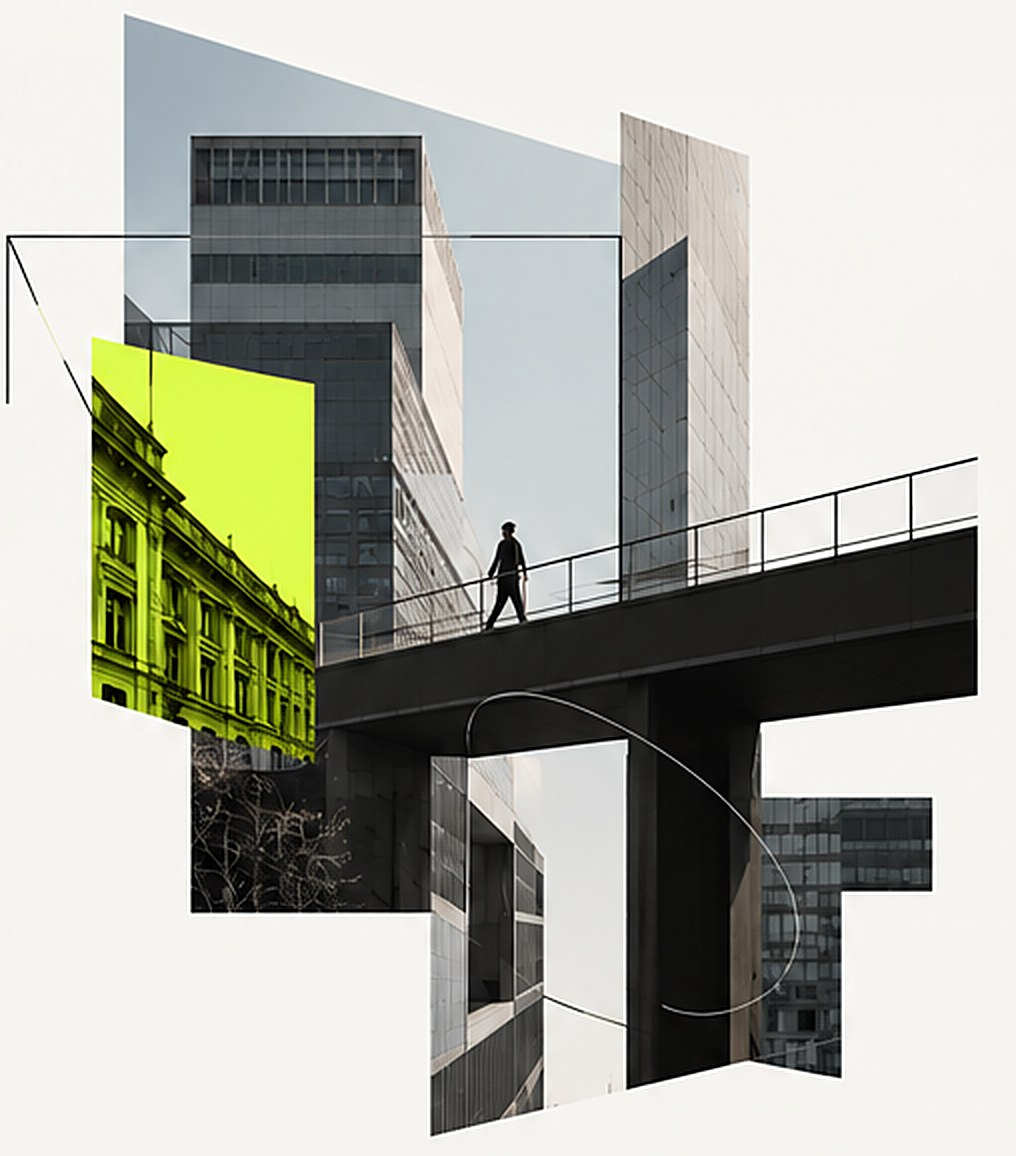
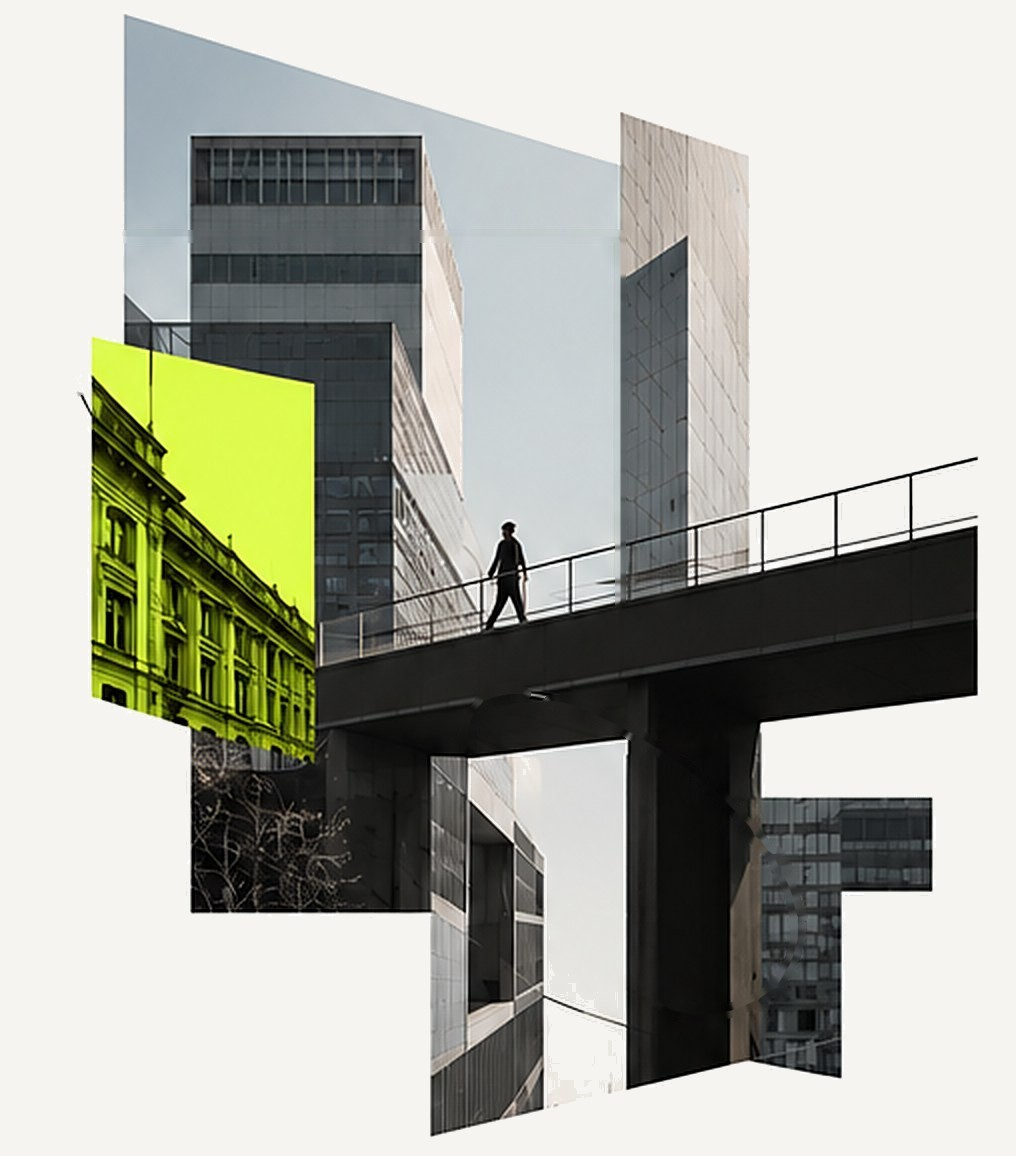
Анимация наброска на первом экране, подключение формы

diff --git a/index.html b/index.html
@@ -8,7 +8,8 @@
   <link rel="preconnect" href="https://fonts.googleapis.com">
   <link rel="preconnect" href="https://fonts.gstatic.com" crossorigin>
   <link href="https://fonts.googleapis.com/css2?family=Golos+Text:wght@400;500;600;700&family=Unbounded:wght@300;800;900&display=swap" rel="stylesheet">
-  <link rel="stylesheet" href="styles.css">
+  <link rel="stylesheet" href="styles.css?v=5">
+  <script>document.documentElement.classList.add('js')</script>
 </head>
 <body>
   <svg width="0" height="0" style="position:absolute" aria-hidden="true">
@@ -56,7 +57,52 @@
           <a class="btn btn--lime btn--lg" href="#register">Зарегистрироваться <svg class="btn__icon"><use href="#i-arrow"/></svg></a>
         </div>
         <div class="hero__media">
-          <img src="img/hero.jpg" width="1016" height="1156" alt="Коллаж: пешеходный мост между небоскрёбами и исторический фасад">
+          <img src="img/hero.jpg?v=5" width="1016" height="1156" alt="Коллаж: пешеходный мост между небоскрёбами и исторический фасад">
+          <svg class="sketch" viewBox="0 0 1016 1156" aria-hidden="true">
+            <defs>
+              <filter id="pencil" x="-5%" y="-5%" width="110%" height="110%">
+                <feTurbulence type="fractalNoise" baseFrequency="0.04" numOctaves="2" seed="7" result="n"/>
+                <feDisplacementMap in="SourceGraphic" in2="n" scale="3.2"/>
+              </filter>
+            </defs>
+            <g class="sketch__outline" filter="url(#pencil)">
+              <path pathLength="1" style="--d:0.05s;--t:0.55s" d="M108 12 L642 167"/>
+              <path pathLength="1" style="--d:0.11s;--t:0.42s" d="M125 -4 L125 362"/>
+              <path pathLength="1" style="--d:0.17s;--t:0.42s" d="M604 108 L764 161"/>
+              <path pathLength="1" style="--d:0.23s;--t:0.55s" d="M748 138 L748 612"/>
+              <path pathLength="1" style="--d:0.29s;--t:0.42s" d="M76 334 L332 388"/>
+              <path pathLength="1" style="--d:0.35s;--t:0.42s" d="M92 320 L92 716"/>
+              <path pathLength="1" style="--d:0.41s;--t:0.55s" d="M290 644 L996 452"/>
+              <path pathLength="1" style="--d:0.47s;--t:0.42s" d="M978 438 L978 714"/>
+              <path pathLength="1" style="--d:0.53s;--t:0.42s" d="M996 692 L298 762"/>
+              <path pathLength="1" style="--d:0.59s;--t:0.55s" d="M182 912 L446 912"/>
+              <path pathLength="1" style="--d:0.65s;--t:0.42s" d="M190 712 L190 928"/>
+              <path pathLength="1" style="--d:0.71s;--t:0.42s" d="M430 738 L430 1150"/>
+              <path pathLength="1" style="--d:0.77s;--t:0.55s" d="M612 742 L644 742"/>
+              <path pathLength="1" style="--d:0.83s;--t:0.42s" d="M628 724 L628 1102"/>
+              <path pathLength="1" style="--d:0.89s;--t:0.42s" d="M744 797 L950 797"/>
+              <path pathLength="1" style="--d:0.95s;--t:0.55s" d="M932 782 L932 906"/>
+              <path pathLength="1" style="--d:1.01s;--t:0.42s" d="M950 890 L824 890"/>
+              <path pathLength="1" style="--d:1.07s;--t:0.42s" d="M840 876 L840 1094"/>
+              <path pathLength="1" style="--d:1.13s;--t:0.55s" d="M412 1136 L560 1102"/>
+              <path pathLength="1" style="--d:1.19s;--t:0.42s" d="M744 1068 L852 1080"/>
+            </g>
+            <g class="sketch__guides">
+              <path pathLength="1" style="--d:0s;--t:.9s" d="M150 690 L1016 446"/>
+              <path pathLength="1" style="--d:.15s;--t:.8s" d="M125 -4 L127 720"/>
+              <path pathLength="1" style="--d:.3s;--t:.9s" d="M300 1112 L1000 1108"/>
+            </g>
+            <g class="sketch__lines" filter="url(#pencil)">
+              <path pathLength="1" style="--d:1.45s;--t:.75s" d="M-12 237 C200 235 420 238 640 236"/>
+              <path pathLength="1" class="sketch__echo" style="--d:2.10s;--t:.5s" d="M4 239 C210 237 400 239 614 234.5"/>
+              <path pathLength="1" style="--d:2.15s;--t:.38s" d="M7 222 C8 290 6 350 8 416"/>
+              <path pathLength="1" style="--d:2.40s;--t:.55s" d="M620 222 C621 360 619 480 621 612"/>
+              <path pathLength="1" style="--d:2.85s;--t:.32s" d="M8 238 L80 400"/>
+              <path pathLength="1" class="sketch__arc" style="--d:3.10s;--t:1.5s" d="M447.4 747.7 L449.8 740.8 L452.9 734.3 L456.6 728.3 L461.1 722.8 L466.1 717.9 L471.8 713.4 L478.1 709.6 L484.9 706.4 L492.3 703.7 L500.2 701.7 L508.6 700.2 L517.4 699.4 L526.7 699.3 L536.3 699.7 L546.3 700.8 L556.5 702.5 L567.0 704.8 L577.8 707.7 L588.7 711.2 L599.7 715.3 L610.9 720.0 L622.0 725.2 L633.2 730.9 L644.3 737.1 L655.3 743.8 L666.2 750.9 L676.9 758.5 L687.3 766.4 L697.5 774.7 L707.4 783.4 L717.0 792.3 L726.2 801.5 L734.9 810.9 L743.2 820.5 L751.0 830.2 L758.2 840.0 L765.0 849.9 L771.1 859.8 L776.7 869.7 L781.6 879.5 L785.8 889.2 L789.5 898.8 L792.4 908.3 L794.6 917.5 L796.2 926.5 L797.0 935.2 L797.2 943.5 L796.6 951.6 L795.4 959.2 L793.4 966.4 L790.7 973.2 L787.4 979.5 L783.4 985.3 L778.7 990.6 L773.4 995.4 L767.5 999.5 L761.0 1003.2 L754.0 1006.2 L746.4 1008.6 L738.3 1010.4 L729.8 1011.6 L720.8 1012.2 L711.4 1012.1 L701.6 1011.4 L691.5 1010.1 L681.1 1008.2 L670.5 1005.6 L659.7 1002.5 L648.8 998.8"/>
+              <path pathLength="1" class="sketch__tick" style="--d:4.40s;--t:.18s" d="M-6 226 L22 248"/>
+              <path pathLength="1" class="sketch__tick" style="--d:4.50s;--t:.18s" d="M606 226 L634 248"/>
+            </g>
+          </svg>
         </div>
       </div>
     </section>
@@ -144,6 +190,6 @@
     </div>
   </footer>
 
-  <script src="script.js"></script>
+  <script src="script.js?v=5"></script>
 </body>
 </html>

diff --git a/styles.css b/styles.css
@@ -116,7 +116,29 @@ button, input { font: inherit; color: inherit; }
 .hero__text { margin-top: 1.8rem; max-width: 50rem; font-size: max(2rem, 15px); line-height: 1.45; color: var(--muted); }
 .hero .btn--lg { margin-top: 5.6rem; }
 .hero__media { margin-top: -9rem; margin-right: -3.6rem; }
+.hero__media { position: relative; }
 .hero__media img { width: 100%; }
+
+/* наброски архитектора: линии прорисовываются поверх коллажа */
+.sketch { position: absolute; inset: 0; width: 100%; height: 100%; overflow: visible; pointer-events: none; }
+.sketch path { fill: none; stroke-linecap: round; stroke-linejoin: round; stroke-dasharray: 1; }
+.sketch__lines path { stroke: var(--ink); stroke-width: 2.8; }
+.sketch__lines .sketch__echo { stroke-width: 1.4; opacity: .45; }
+.sketch__lines .sketch__arc { stroke: #d9d9d4; stroke-width: 2.6; }
+.sketch__lines .sketch__tick { stroke-width: 1.8; }
+.sketch__guides path { stroke: rgba(22,22,22,.18); stroke-width: 1.3; }
+.sketch__outline path { stroke: rgba(22,22,22,.6); stroke-width: 1.7; }
+.sketch__outline { opacity: 0; }
+.js .sketch__outline { opacity: 1; }
+.js .hero__media.is-play .sketch__outline { animation: sketch-out 1s 2.4s ease forwards; }
+@keyframes sketch-out { to { opacity: 0; } }
+.js .sketch path { stroke-dashoffset: 1; }
+.js .hero__media img { opacity: 0; transform: translateY(1.6rem); }
+.js .hero__media.is-play img { opacity: 1; transform: none; transition: opacity 1.4s 1.2s var(--ease), transform 1.8s 1.2s var(--ease); }
+.js .hero__media.is-play .sketch path { animation: sketch-draw var(--t, .6s) cubic-bezier(.6, .04, .3, 1) var(--d, 0s) forwards; }
+.js .hero__media.is-play .sketch__guides path { animation-name: sketch-draw, sketch-fade; animation-duration: var(--t), 1.2s; animation-delay: var(--d), 4.4s; animation-timing-function: cubic-bezier(.6, .04, .3, 1), ease; animation-fill-mode: forwards; }
+@keyframes sketch-draw { to { stroke-dashoffset: 0; } }
+@keyframes sketch-fade { to { opacity: .45; } }
 
 /* ——— для кого ——— */
 .audience { padding: 6.8rem 0 5.2rem; }
@@ -291,5 +313,8 @@ button, input { font: inherit; color: inherit; }
 
 @media (prefers-reduced-motion: reduce) {
   html { scroll-behavior: auto; }
+  .js .sketch path { stroke-dashoffset: 0; animation: none !important; }
+  .js .hero__media img { opacity: 1; transform: none; }
+  .js .sketch__outline { opacity: 0; }
   *, *::before, *::after { transition-duration: .01ms !important; }
 }

diff --git a/script.js b/script.js
@@ -21,6 +21,25 @@
     link.addEventListener('click', () => setTimeout(() => nameInput.focus({ preventScroll: true }), 500));
   });
 
+  // Наброски на первом экране стартуют, когда картинка загрузилась и коллаж виден
+  const heroMedia = document.querySelector('.hero__media');
+  const heroImg = heroMedia.querySelector('img');
+  const loaded = new Promise((resolve) => {
+    if (heroImg.complete) resolve();
+    else {
+      heroImg.addEventListener('load', resolve, { once: true });
+      heroImg.addEventListener('error', resolve, { once: true });
+    }
+  });
+  const visible = new Promise((resolve) => {
+    if (!('IntersectionObserver' in window)) return resolve();
+    const io = new IntersectionObserver((entries) => {
+      if (entries.some((e) => e.isIntersecting)) { io.disconnect(); resolve(); }
+    }, { threshold: 0.3 });
+    io.observe(heroMedia);
+  });
+  Promise.all([loaded, visible]).then(() => requestAnimationFrame(() => heroMedia.classList.add('is-play')));
+
   const form = document.querySelector('.form');
   const status = form.querySelector('.form__status');
   const emailRe = /^[^\s@]+@[^\s@]+\.[^\s@]+$/;

diff --git a/CHANGELOG.md b/CHANGELOG.md
@@ -12,3 +12,7 @@
 ## 2026-10-08 (2)
 - Форма подключена к таблице «Заявки» (Apps Script развёрнут). Форма отправляет заявки в Google Таблицу через Apps Script (`google-apps-script/Code.gs`, URL — константа `SHEET_URL` в `script.js`); ловушка для ботов, состояние «Отправляем…».
 - Опубликовано на GitHub Pages: https://timofeevaekaterinan-rgb.github.io/gorod-dizain-kod/ (репо gorod-dizain-kod).
+
+## 2026-10-08 (3)
+- Форма подключена к Google Таблице (URL Apps Script в `script.js`), к css/js/картинке добавлены версии `?v=` против кэша.
+- Анимация коллажа на первом экране «как набросок архитектора»: карандашные контуры кусков коллажа → проявляется фото → контуры гаснут → дорисовываются рамка, диагональ, дуга и засечки. Линии вычищены из растра и перерисованы SVG (stroke-dashoffset + фильтр «карандаш»). Старт — когда картинка загружена и коллаж в зоне видимости; при prefers-reduced-motion показывается финальное состояние.
